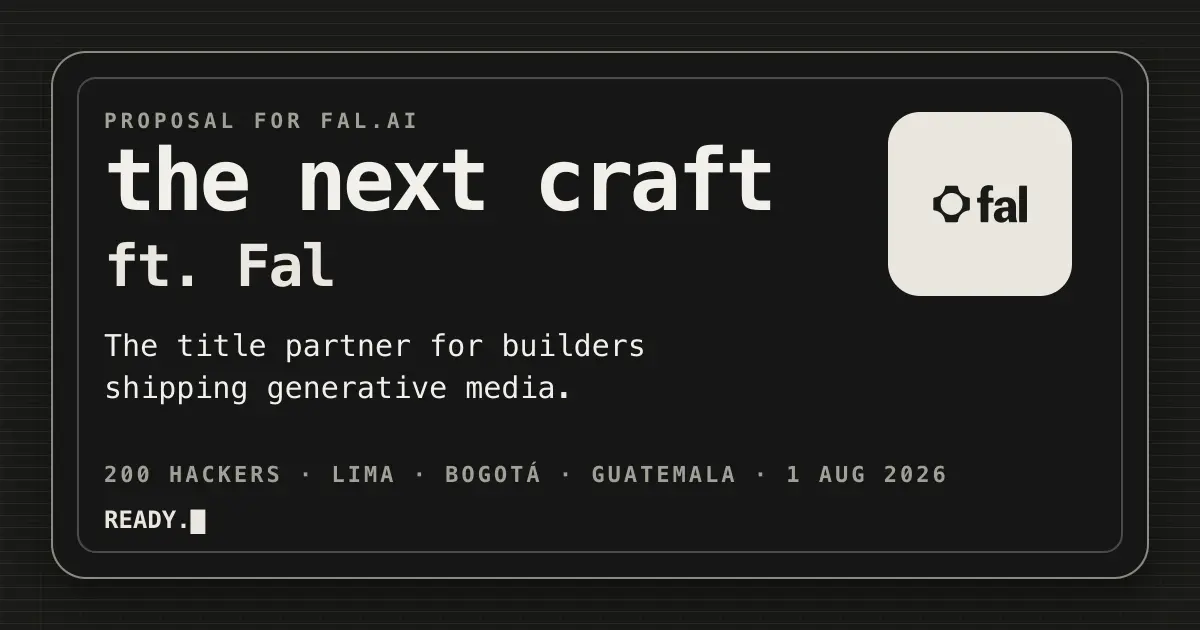
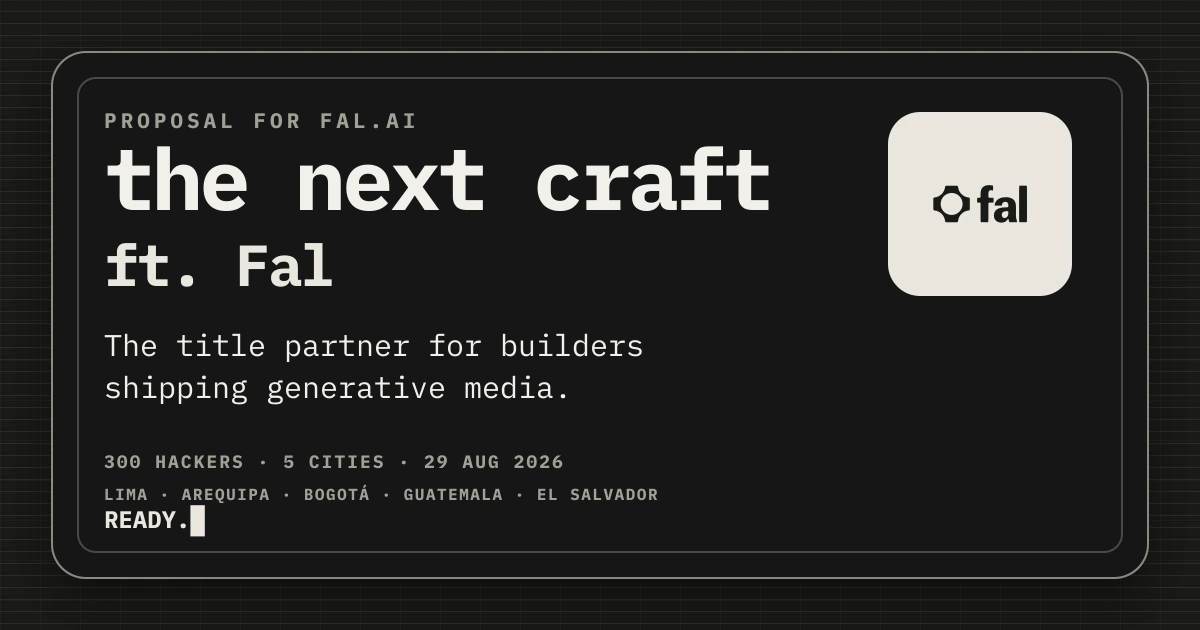
Update event locations across generated assets

diff --git a/src/app/[locale]/twitter-image.tsx b/src/app/[locale]/twitter-image.tsx
@@ -25,7 +25,8 @@ async function loadGoogleFont(family: string, text: string) {
 }
 
 const SCRIPT_TITLE = "the next craft";
-const SPECS = "LIMA · BOGOTÁ · GUATEMALA · 29 AGO 2026 · 12H";
+const SPECS =
+  "LIMA · AREQUIPA · BOGOTÁ · GUATEMALA · EL SALVADOR · 29 AGO 2026 · 12H";
 const READY = "READY.";
 
 export default async function TwitterImage() {
@@ -73,9 +74,9 @@ export default async function TwitterImage() {
         <div
           style={{
             color: "#A2A096",
-            fontSize: "21px",
+            fontSize: "17px",
             fontFamily: "IBM Plex Mono",
-            letterSpacing: "0.14em",
+            letterSpacing: "0.08em",
             display: "flex",
           }}
         >

diff --git a/src/app/[locale]/opengraph-image.tsx b/src/app/[locale]/opengraph-image.tsx
@@ -25,7 +25,8 @@ async function loadGoogleFont(family: string, text: string) {
 }
 
 const SCRIPT_TITLE = "the next craft";
-const SPECS = "LIMA · BOGOTÁ · GUATEMALA · 29 AGO 2026 · 12H";
+const SPECS =
+  "LIMA · AREQUIPA · BOGOTÁ · GUATEMALA · EL SALVADOR · 29 AGO 2026 · 12H";
 const READY = "READY.";
 
 export default async function OgImage() {
@@ -73,9 +74,9 @@ export default async function OgImage() {
         <div
           style={{
             color: "#A2A096",
-            fontSize: "21px",
+            fontSize: "17px",
             fontFamily: "IBM Plex Mono",
-            letterSpacing: "0.14em",
+            letterSpacing: "0.08em",
             display: "flex",
           }}
         >

diff --git a/src/lib/registration/boarding-pass.tsx b/src/lib/registration/boarding-pass.tsx
@@ -11,8 +11,9 @@ export function boardingPassImage(params: {
   code: string;
   name: string;
   role: string;
+  city: string;
 }): ImageResponse {
-  const { code, name, role } = params;
+  const { code, name, role, city } = params;
   return new ImageResponse(
     <div
       style={{
@@ -122,7 +123,7 @@ export function boardingPassImage(params: {
           }}
         >
           <span>29 AGO 2026</span>
-          <span>LIMA, PERÚ</span>
+          <span>{city}</span>
           <span>12 HORAS</span>
         </div>
       </div>

diff --git a/src/app/api/boarding-pass/[code]/route.ts b/src/app/api/boarding-pass/[code]/route.ts
@@ -18,5 +18,10 @@ export async function GET(
   const reg = await getRegistrationByCode(normalized);
   if (!reg) return new Response("Not found", { status: 404 });
 
-  return boardingPassImage({ code: reg.code, name: reg.name, role: reg.role });
+  return boardingPassImage({
+    code: reg.code,
+    name: reg.name,
+    role: reg.role,
+    city: reg.city ?? "SEDE POR CONFIRMAR",
+  });
 }
